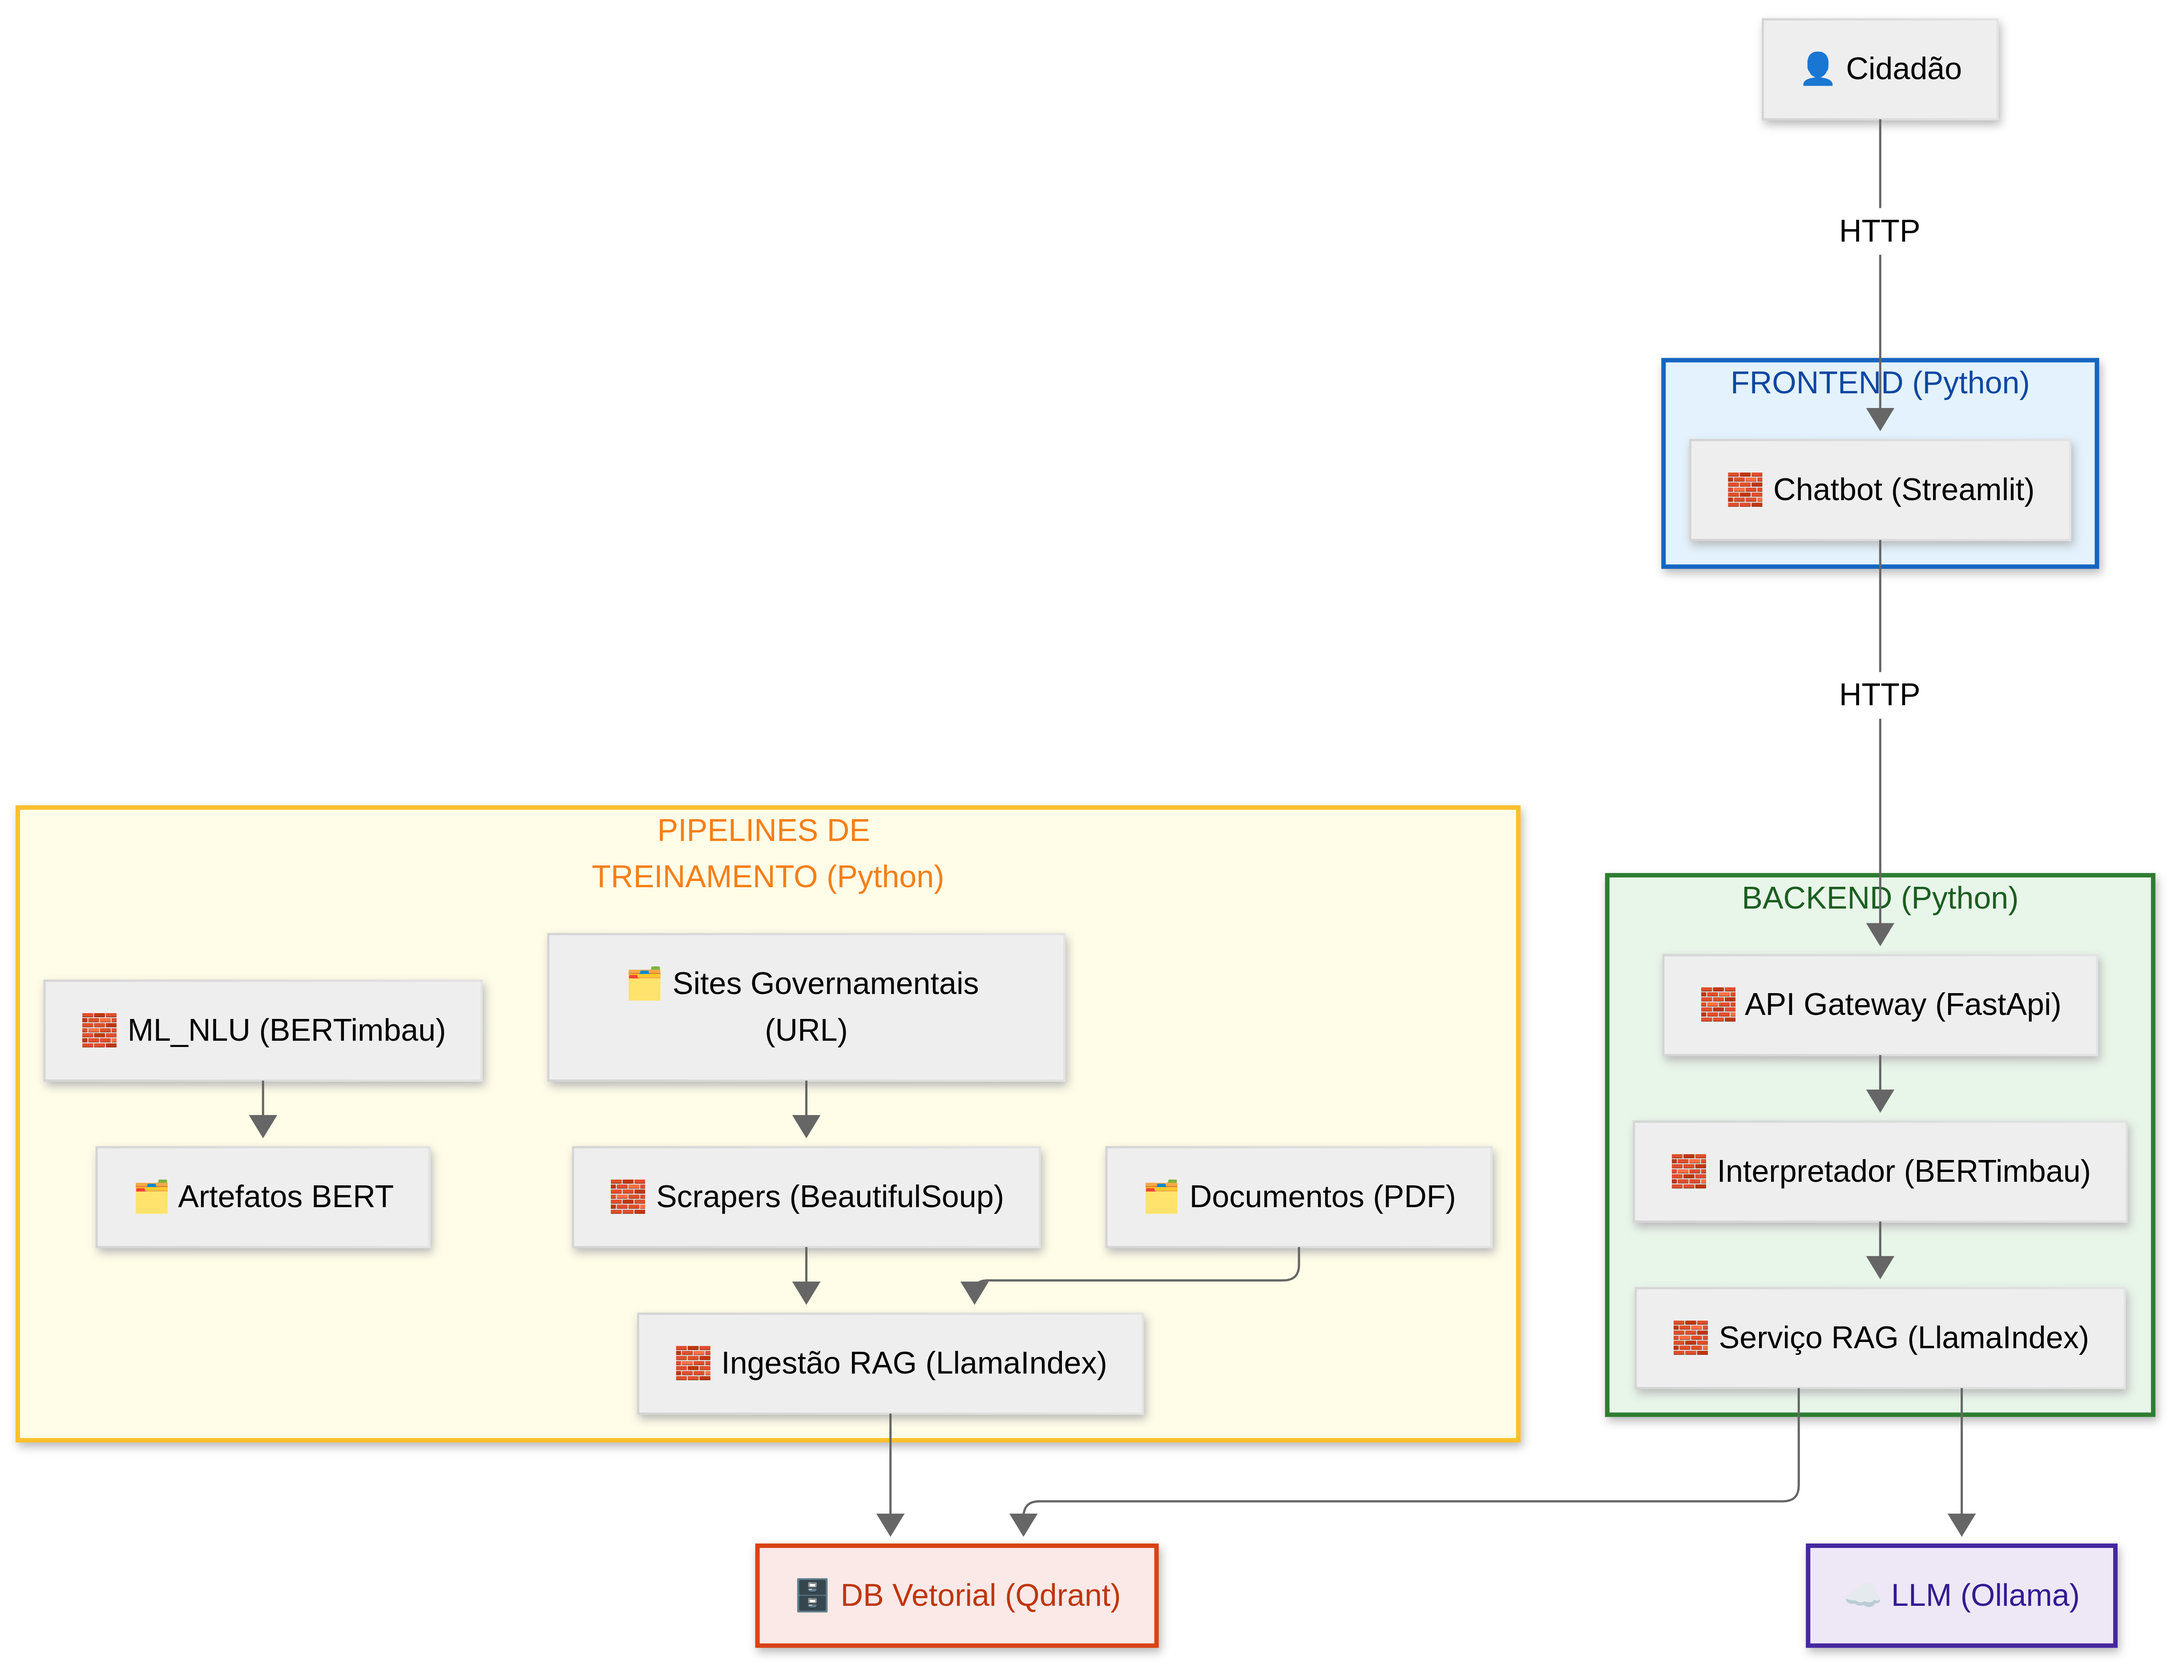
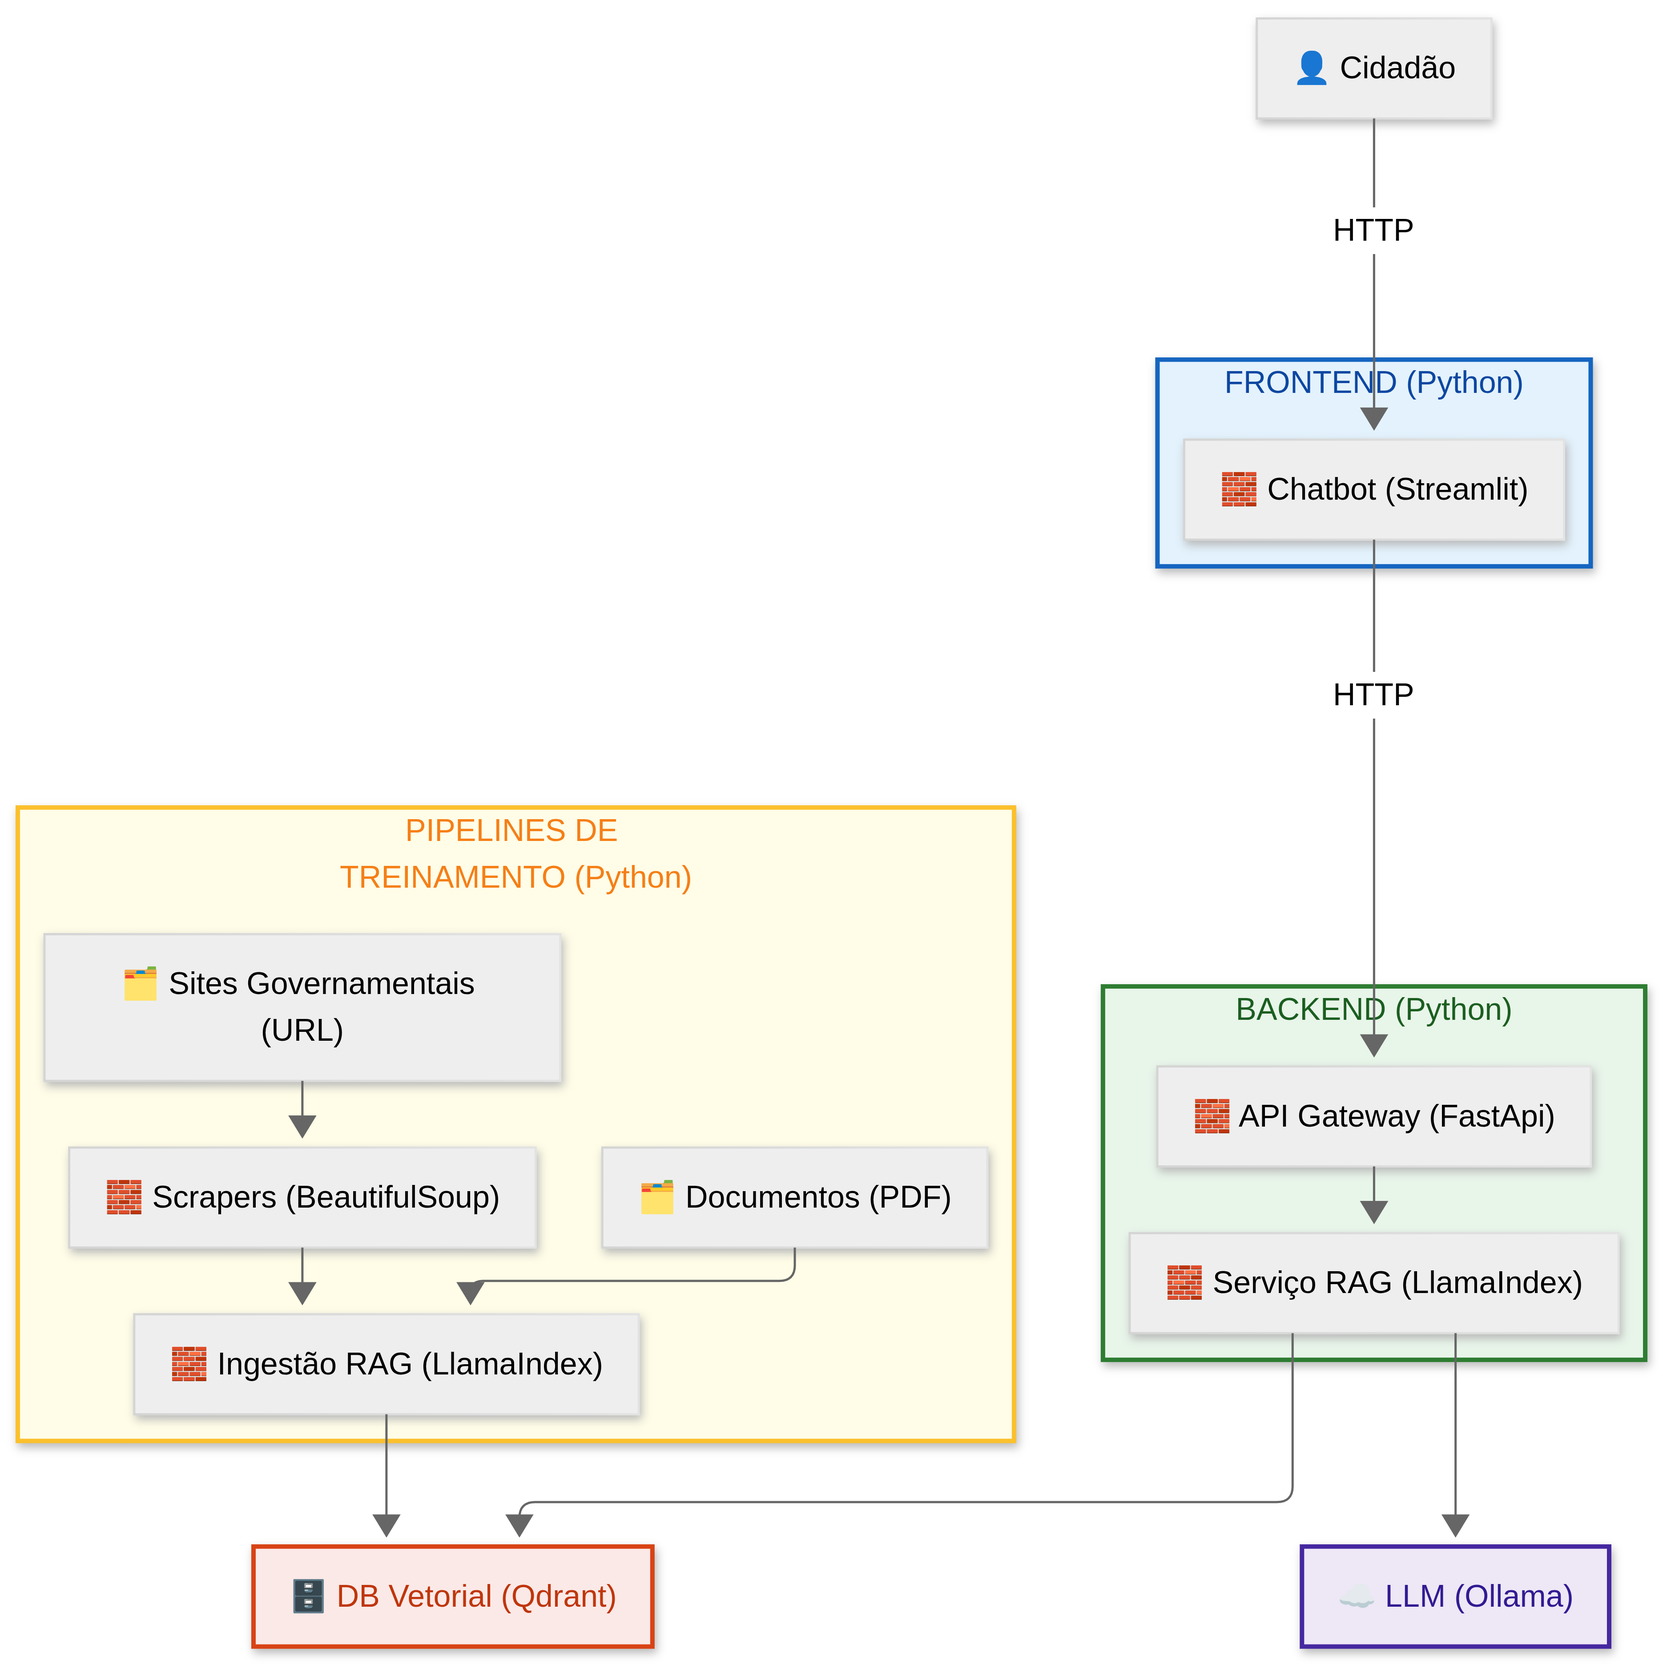
docs(arquitetura): revisa arquitetura mvp

diff --git a/docs/Dados/arquitetura.md b/docs/Dados/arquitetura.md
@@ -25,18 +25,16 @@ A camada de interação direta com o `👤 Cidadão`. É responsável por toda a
 
 O núcleo do sistema, responsável pela lógica de negócios, processamento de ML e gerenciamento de dados. É composto por serviços que se comunicam internamente.
 
-* **API Gateway (RestAPI):** Ponto de entrada único do backend (Single Point of Entry). Construído em **FastAPI**, gerencia todas as requisições HTTP, roteando-as para os serviços internos apropriados, primariamente o `Interpretador`.
+* **API Gateway (RestAPI):** Ponto de entrada único do backend (Single Point of Entry). Construído em **FastAPI**, gerencia todas as requisições HTTP, roteando-as para os serviços internos apropriados.
 
-* **Interpretador:** O "cérebro" da aplicação. Recebe as chamadas da API Gateway e executa a lógica de negócios da conversa:
-    1.  Faz o carregamento do NLU (Natural Language Understanding) salvos nos `🗂 Artefatos BERT` pela pipeline `ML_NLU`.
-    2.  Realiza a extração da intenção da mensagem do usuário.
-    3.  Com base na intenção, decide qual serviço acionar (neste MVP, o `Serviço RAG`).
 
 * **Serviço RAG:** Responsável pela Geração Aumentada por Recuperação (RAG). Utiliza o **LlamaIndex** para:
-    1.  Receber a consulta (e o histórico de chat) do `Interpretador`.
+    1.  Receber a consulta (e o histórico de chat).
     2.  Buscar por contexto relevante no `🗄 Banco Vetorial (Qdrant)`.
     3.  Construir o prompt final (consulta + contexto + regras de prompt) e enviá-lo para a `☁ LLM (Ollama)`.
     4.  Gerenciar a memória da conversa por sessão de usuário.
+
+    OBS: Para o MVP 1, o Serviço RAG também é responsável por utilizar a LLM para classificar a intenção do usuário e realizar a classficação dos campos.
 
 ### Camada de PIPELINES DE TREINAMENTO (Offline)
 
@@ -44,7 +42,6 @@ Processos executados em lote ("offline") que criam os artefatos de ML e os dados
 
 * **Scrapers:** Scripts (usando BeautifulSoup) que varrem os `🗂 Sites Governamentais (URL)` em busca de manuais, leis e documentos públicos.
 * **Ingestão RAG:** Pipeline do **LlamaIndex** que recebe os `🗂 Documentos (PDF)` e os dados processados pelos `Scrapers`. Ele é responsável por dividir (chunking), vetorizar (embedding) e inserir esse conhecimento no `🗄 Banco Vetorial (Qdrant)`.
-* **ML_NLU:** Pipeline de treinamento (fine-tuning) do **BERTimbau** para as tarefas de extração de intenção e entidades. Ela é alimentada pela `☁ LLM (Ollama)` num modelo "Zero Treinamento" com prompt para definição de intenções e entidades e gera os `🗂 Artefatos BERT` como sua saída.
 
 ### Banco de Dados e Serviços Externos
 
